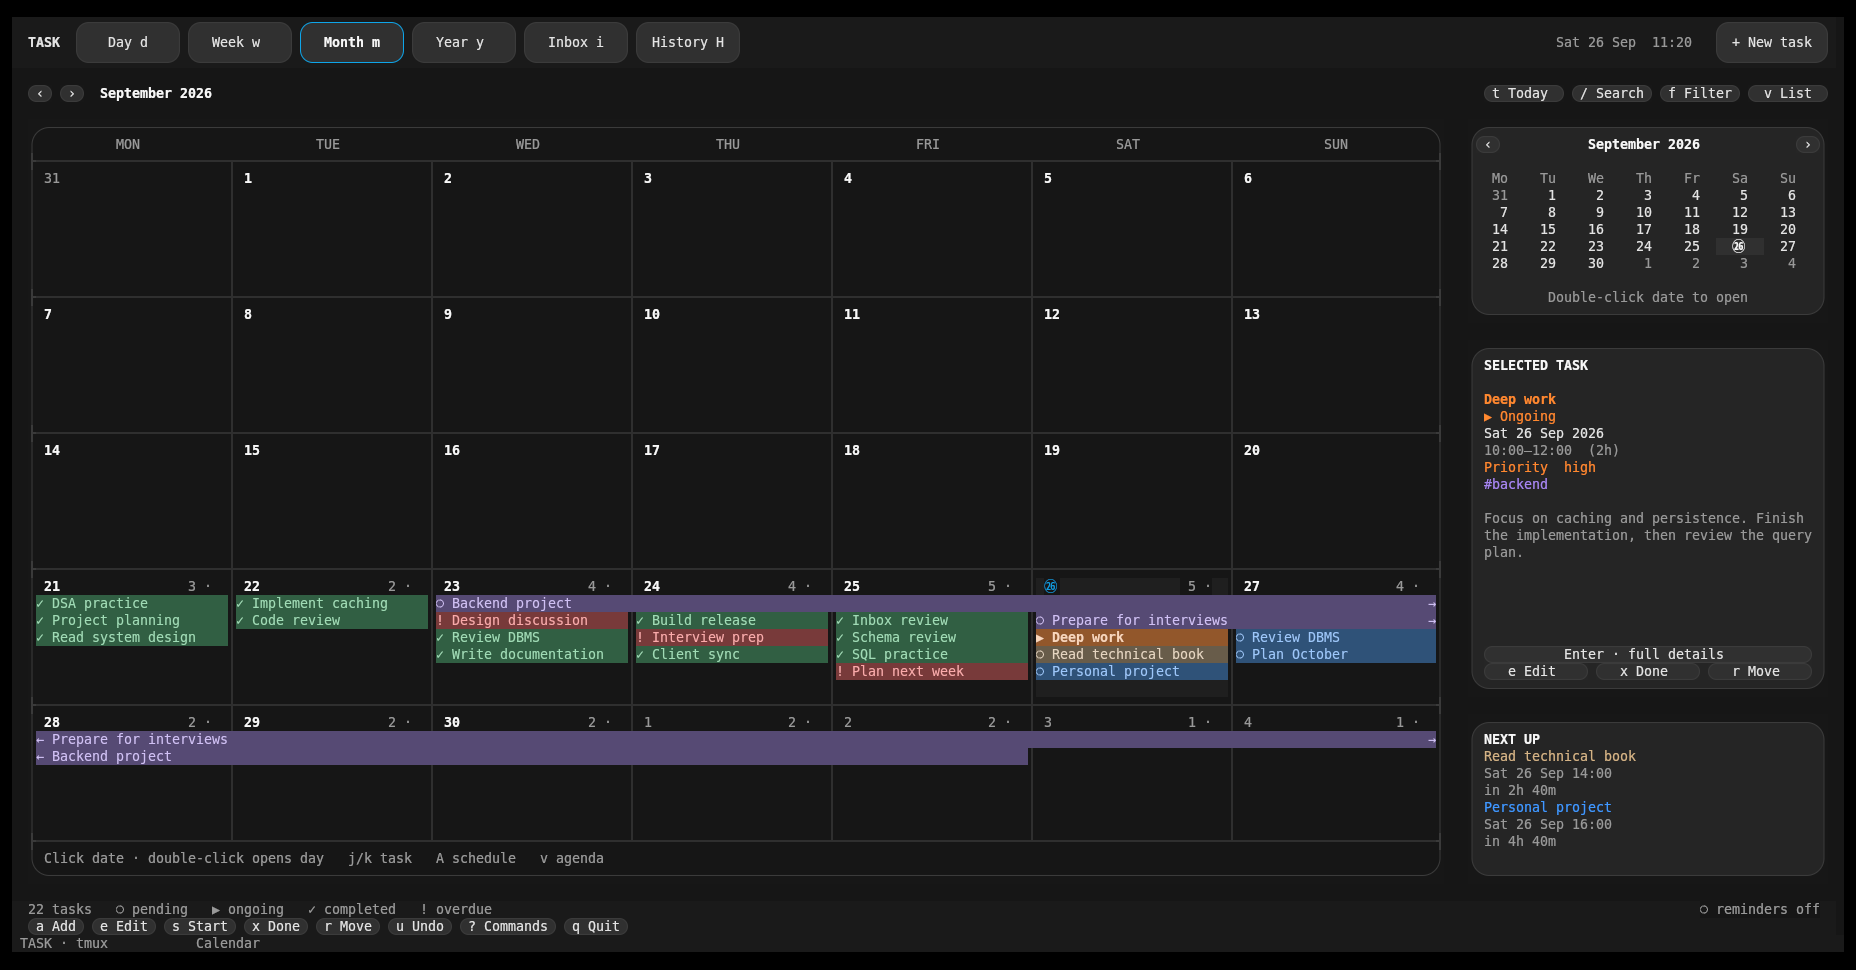
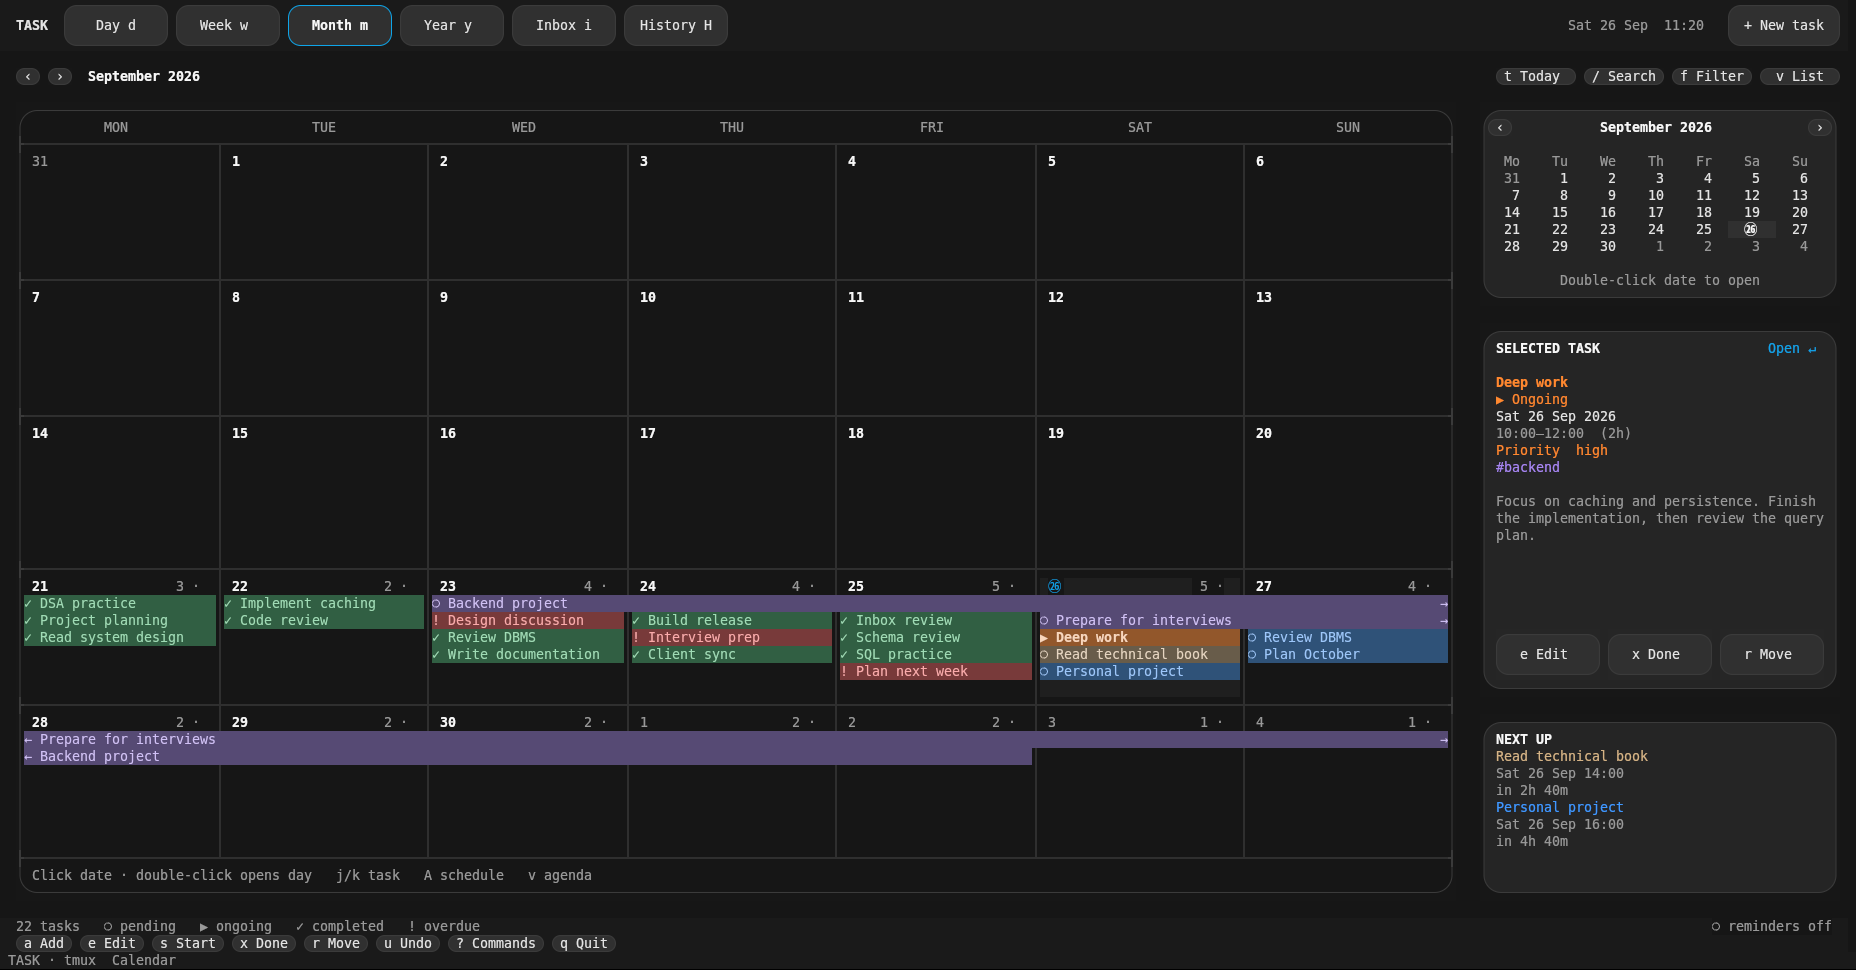
Balance task card content and simplify selected-task actions

diff --git a/taskcal/views.py b/taskcal/views.py
@@ -46,6 +46,14 @@ def duration(delta):
     return " ".join(value for value in (f"{days}d" if days else "", f"{hours}h" if hours else "", f"{minutes}m" if minutes else "") if value) or "0m"
 
 
+def compact_time(starts, ends, width):
+    """Keep complete endpoints where possible, shortening whole hours first."""
+    full = starts + "–" + ends
+    short = starts.replace(":00", "") + "–" + ends.replace(":00", "")
+    return next((text for text in (full, short) if cell_width(text) <= width),
+                ellipsis(full, width))
+
+
 class Views:
     def __init__(self, app):
         self.a = app
@@ -368,43 +376,68 @@ class Views:
         color = self.color(item)
         fill = color + ("_selected" if selected else "_fill")
         edge = fill + "_edge"
-        title = self.title(item)
         dl, dh = bounds(day, "day")
         starts = item.task.start.strftime("%H:%M") if item.task.start >= dl else "←00:00"
         ends = item.task.end.strftime("%H:%M") if item.task.end < dh else "24:00→"
-        timing = starts + "–" + ends
         with p.within(rect):
-            content_rows = [y for y in range(rect.y, rect.y+rect.h) if y != marker_y]
-            if len(content_rows) < 3 and not p.chrome:
-                # A compact chip is intentionally borderless; don't draw broken boxes.
+            if p.chrome:
                 outer = p.background(rect)
                 p.fill(rect,fill)
-                p.text(content_rows[0],rect.x,"▌",edge,1)
-                pad = 2 if rect.w >= 6 else 1
-                p.text(content_rows[0],rect.x+pad,ellipsis(title,rect.w-2*pad),fill,rect.w-2*pad,bold=selected)
-                if len(content_rows) == 2:
-                    p.text(content_rows[1],rect.x+pad,timing,edge,rect.w-2*pad)
+                p.rounded(rect,fill,edge,"task",outer,accent=color)
+            elif rect.h >= 3:
+                p.box(rect,style=edge,fill=fill,edge_aligned=True)
             else:
-                if p.chrome:
-                    outer = p.background(rect)
-                    p.fill(rect,fill)
-                    p.rounded(rect,fill,edge,"task",outer,accent=color)
-                    if len(content_rows) > 2:
-                        content_rows = content_rows[:-1]
-                else:
-                    p.box(rect,style=edge,fill=fill,edge_aligned=True)
-                    content_rows = [y for y in content_rows if rect.y < y < rect.y+rect.h-1]
-                available = len(content_rows)
-                lines = wrap(title,max(1,rect.w-4))
-                title_rows = max(1,available-1) if available>1 else 1
-                for index,line in enumerate(lines[:title_rows]):
-                    if index==title_rows-1 and len(lines)>title_rows:
-                        line=ellipsis(" ".join(lines[index:]),rect.w-4)
-                    p.text(content_rows[index],rect.x+2,line,fill,rect.w-4,bold=selected)
-                if available>1:
-                    p.text(content_rows[-1],rect.x+2,timing,edge,rect.w-4)
+                p.fill(rect,fill)
+            self.card_content(rect, item, starts, ends, fill, edge, marker_y)
         self.card_rects.append((rect,item.ref))
         self.hit(rect,"task",item.ref)
+
+    def card_content(self, rect, item, starts, ends, fill, edge, marker_y):
+        """Center one text group, with a hanging state symbol and shared inset.
+
+        A calendar block cannot grow beyond its scheduled interval. Short blocks
+        use one line; taller blocks gain wrapped titles, time and breathing room.
+        The minute rule owns its row, so content never gets overwritten by it.
+        """
+        p = self.p
+        rows = [y for y in range(rect.y,rect.y+rect.h) if y != marker_y]
+        if not rows:
+            return
+        pad = 3 if rect.w >= 40 else 2 if rect.w >= 10 else 1
+        width = rect.w-2*pad
+        gutter = 2 if width >= 6 else 0
+        x, width = rect.x+pad+gutter, width-gutter
+        if width <= 0:
+            return
+        title = self.title(item)[2:]  # State has its own column on every line.
+        timing = compact_time(starts, ends, width)
+        selected = self.selected(item)
+        if len(rows) < 4:
+            y = min(rows,key=lambda row:(abs(2*row-(2*rect.y+rect.h-1)),-row))
+            # Wide, shallow blocks can retain both fields on the same baseline.
+            time_width = cell_width(timing)
+            inline = width >= time_width+14
+            title_width = width-time_width-2 if inline else width
+            p.text(y,x,ellipsis(title,title_width),fill,title_width,bold=selected)
+            if inline:
+                p.text(y,x+width-time_width,timing,edge,time_width)
+        else:
+            rows = rows[1:-1]  # Equal top/bottom inset, clear of the accent.
+            lines = wrap(title,width)
+            count = min(3,len(lines),len(rows)-1)
+            if len(lines) > count:
+                lines[count-1] = ellipsis(" ".join(lines[count-1:]),width)
+            gap = int(len(rows) >= count+3)
+            # Center using screen coordinates, including a possible minute row.
+            # On a half-cell tie, leave the extra breathing room above the text.
+            offset = min(range(len(rows)-count-gap), key=lambda i:
+                         (abs(rows[i]+rows[i+count+gap]-(2*rect.y+rect.h-1)),-i))
+            y = rows[offset]
+            for index,line in enumerate(lines[:count]):
+                p.text(rows[offset+index],x,line,fill,width,bold=selected)
+            p.text(rows[offset+count+gap],x,timing,edge,width)
+        if gutter:
+            p.text(y,x-gutter,self.symbol(item),edge,1)
 
     def bar(self, rect, item, lo, hi):
         color = self.color(item)
@@ -659,6 +692,10 @@ class Views:
             p.text(y,x,"Nothing selected","panel_dim",w)
             p.text(y+2,x,"a capture · A schedule","accent",w)
             return
+        # Inspection is a quiet header action; mutations share one roomy row.
+        open_rect = Rect(rect.x+rect.w-10,rect.y+1,8,1)
+        p.centered(open_rect.y,open_rect,"Open ↵","accent@panel")
+        self.hit(open_rect,"key","\n")
         task=item.task
         color=self.color(item)
         lines=[(line,color) for line in wrap(task.title,w)[:2]]
@@ -682,14 +719,13 @@ class Views:
         if task.notes:
             lines.append(("","panel"))
             lines.extend((line,"panel_dim") for line in wrap(task.notes,w))
-        available=max(0,rect.h-7)
+        available=max(0,rect.h-8)
         for index,(text,style) in enumerate(lines[:available]):
             if index==available-1 and len(lines)>available:
                 text=ellipsis(text+" …",w)
             p.text(y+index,x,text,style,w,bold=index==0)
-        self.button(Rect(x,rect.y+rect.h-3,w,1),"Enter · full details","key","\n")
         for (left,width),(label,key) in zip(tracks(x,w,3,1),(("e Edit","e"),("x Done","x"),("r Move","r"))):
-            self.button(Rect(left,rect.y+rect.h-2,width,1),label,"key",key)
+            self.button(Rect(left,rect.y+rect.h-4,width,3),label,"key",key)
 
     def summary(self, rect):
         a, p = self.a, self.p

diff --git a/tests/test_chrome.py b/tests/test_chrome.py
@@ -4,12 +4,14 @@ import re
 import struct
 import unittest
 import zlib
+from datetime import timedelta
 from unittest.mock import Mock, patch
 
 from taskcal.chrome import Chrome, contour, inside_tmux, radius_for, supported
 from taskcal.drawing import Rect
 from test_terminal import Screen
-from test_visual_calendar import VisualFixture
+from test_visual_calendar import VisualFixture, BASE, DAY
+from taskcal.views import compact_time
 
 
 FILL, OUTER, EDGE, BLUE = (49,49,49), (23,23,23), (59,59,59), (64,153,255)
@@ -153,6 +155,79 @@ class RoundedAppTests(VisualFixture):
         with patch.dict('os.environ',{},clear=True), patch.multiple('curses',**stubs,COLORS=256,COLOR_PAIRS=256,create=True):
             self.app.theme.install()
         self.app.paint.chrome=Chrome(lambda data:None,lambda:(8,17))
+
+    def test_card_text_has_balanced_insets_at_different_sizes(self):
+        self.add('Start PostgreSQL series',start=BASE+timedelta(hours=5),end=BASE+timedelta(hours=6))
+        self.refresh()
+        item=self.app.chosen()
+        for width in (24,40,90):
+            for height in (4,5,8,16):
+                with self.subTest(width=width,height=height):
+                    rect=Rect(5,10,width,height)
+                    self.app.paint.cells.clear()
+                    self.app.views.card(rect,item,DAY)
+                    cells=self.app.paint.cells
+                    ink=[(x,y) for (x,y),(char,_) in cells.items() if char.strip()]
+                    top=min(y for x,y in ink)-rect.y
+                    bottom=rect.y+rect.h-1-max(y for x,y in ink)
+                    self.assertGreaterEqual(min(top,bottom),1)
+                    self.assertLessEqual(abs(top-bottom),1)
+                    self.assertGreaterEqual(min(x for x,y in ink)-rect.x,2)
+                    self.assertGreaterEqual(rect.x+rect.w-1-max(x for x,y in ink),2)
+                    lines=[''.join(cells.get((x,y),(' ',''))[0] for x in range(rect.x,rect.x+rect.w))
+                           for y in range(rect.y,rect.y+rect.h)]
+                    title=next(line for line in lines if 'Start' in line)
+                    timing=next(line for line in lines if '05:00–06:00' in line)
+                    self.assertEqual(title.index('Start'),timing.index('05:00'))
+                    if width==24 and height>=8:
+                        continuation=next(line for line in lines if 'series' in line)
+                        self.assertEqual(title.index('Start'),continuation.index('series'))
+
+    def test_shallow_wide_card_shows_title_and_time_on_centered_row(self):
+        self.add('Short session')
+        self.refresh()
+        rect=Rect(5,10,80,3)
+        self.app.paint.cells.clear()
+        self.app.views.card(rect,self.app.chosen(),DAY)
+        cells=self.app.paint.cells
+        self.assertEqual({11},{y for (x,y),(char,_) in cells.items() if char.strip()})
+        line=''.join(cells[(x,11)][0] for x in range(rect.x,rect.x+rect.w))
+        self.assertIn('Short session',line)
+        self.assertIn('10:00–12:00',line)
+        self.assertTrue(line.endswith('   '))
+
+    def test_time_label_shortening_preserves_endpoints_or_marks_truncation(self):
+        self.assertEqual('05:00–06:00',compact_time('05:00','06:00',11))
+        self.assertEqual('05–06',compact_time('05:00','06:00',8))
+        self.assertEqual('←00–24→',compact_time('←00:00','24:00→',8))
+        self.assertTrue(compact_time('05:30','06:45',8).endswith('…'))
+
+    def test_details_actions_are_separate_from_content_and_clickable(self):
+        task=self.add('Selected task',notes='Long notes '*40)
+        self.refresh()
+        for width,height in ((32,12),(38,20),(48,28)):
+            rect=Rect(100,6,width,height)
+            self.app.views.hits=[]
+            self.app.views.details(rect)
+            hits={v:r for r,a,v in self.app.views.hits if a=='key'}
+            self.assertEqual({'\n','e','x','r'},set(hits))
+            for key in ('e','x','r'):
+                self.assertEqual(3,hits[key].h)
+                self.assertGreater(hits[key].x,rect.x)
+                self.assertLess(hits[key].x+hits[key].w,rect.x+rect.w)
+            self.assertEqual(1,len({hits[key].y for key in ('e','x','r')}))
+            for left,right in zip(('e','x'),('x','r')):
+                self.assertLess(hits[left].x+hits[left].w,hits[right].x)
+            self.assertEqual(rect.y+1,hits['\n'].y)
+            with patch.object(self.app,'inspect') as inspect:
+                r=hits['\n']
+                self.app.mouse((r.x+1,r.y,'click',False))
+                inspect.assert_called_once()
+            r=hits['x']
+            self.app.mouse((r.x+r.w//2,r.y+1,'click',False))
+            self.assertEqual('completed',self.store.get(task.id).state)
+            self.app.action('u')
+            self.assertEqual('pending',self.store.get(task.id).state)
 
     def test_every_view_mouse_and_minute_rule_with_graphics(self):
         self.add('Rounded task')

diff --git a/taskcal/__init__.py b/taskcal/__init__.py
@@ -1,3 +1,3 @@
 """A local, terminal-native task calendar."""
 
-__version__ = "1.5.0"
+__version__ = "1.5.1"

diff --git a/docs/design-research.md b/docs/design-research.md
@@ -248,3 +248,27 @@ Visual checks covered window switching, moving the app into a right-hand split,
 the status bar above the pane, font changes, and minimum-size recovery with an
 unsaved draft. The pane's passthrough option was restored after exit. The eight
 preview images now show the application running inside tmux.
+
+## Task content and selected-task actions (1.5.1)
+
+The previous cards placed the title on their first row and the time near their
+last row. This gave wrapped titles uneven margins and separated related text.
+Cards now center a single title/time group vertically. Side padding grows from
+two to three columns on wider blocks; the state symbol has a separate column,
+so wrapped text and time labels share the same left edge. Normal cards reserve
+a blank row above and below their content. Short blocks use a single centered
+line, with an inline time range when wide enough. Larger blocks show up to three
+title lines. They retain their scheduled height rather than expanding into
+neighboring tasks. The current-time rule retains its own uninterrupted row.
+
+The details panel replaces the stacked, single-row capsules with an Open action
+in the header and three equal, three-row controls at the bottom. Content stops
+before the controls, and every action remains reachable by keyboard or mouse.
+The complete task title and schedule remain accessible through inspection.
+
+Validation: all 115 tests passed, including balanced card insets, wrapped-title
+alignment, compact time labels, and sidebar action bounds. The installed 1.5.1
+launcher passed mouse-event checks through Kitty/tmux for capture, save,
+selection, Open, Edit, Move, completion and undo. Visual review covered all
+calendar scales, compact windows, font resizing, and an unsaved draft through
+the minimum-size screen. Preview images use disposable task data.

diff --git a/README.md b/README.md
@@ -106,7 +106,8 @@ snooze actions.
   refreshes on each minute, including while the application is idle.
   It has a reserved row across the entire grid, passing over task blocks and
   column dividers without covering task titles or times.
-  Exact times remain in each block and the details panel.
+  Blocks show exact times when space permits; the selected-task panel and full
+  inspection always include the complete schedule.
 - **Day:** a larger time grid, concurrent tasks in adjacent columns, and exact
   free periods in the gaps. All-day spans occupy a separate strip. Earlier
   overdue work is called out above the grid and in the sidebar.
@@ -156,6 +157,11 @@ tabs have equal widths and rounded rectangles; small buttons have capsule ends.
 Radii scale with the terminal's cell
 size: about 18 pixels for panels, 14 for tasks and 12 for fields at a 17-pixel
 cell height. Fills meet the thin outlines, and tasks have a thicker colored base.
+Task titles and times form a vertically centered group with shared text insets.
+Wrapped titles keep their alignment after the state symbol. Shallow blocks use
+one line, adding the time alongside the title when wide enough. Taller blocks
+gain up to three title lines and a separate time row. The details panel has a
+header action to open the task and one spaced row for Edit, Done and Move.
 Kitty draws these locally generated borders behind ordinary terminal text; mouse
 input, text selection, and the live time rule stay native. No font or graphics
 packages are required. Other terminals retain character-based borders. Inside tmux
